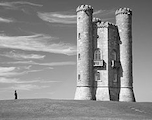
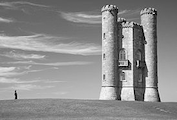
optimized
6.7s

diff --git a/optimization/optimized.py b/optimization/optimized.py
@@ -1,0 +1,90 @@
+from PIL import Image
+import gurobipy as gp
+from gurobipy import GRB
+import numpy as np
+import networkx as nx
+import time
+
+im = Image.open('tower.png').convert('L') #convert to grayscale
+tic = time.time()
+
+s = 0 
+real_source = 50
+iterations = 25
+
+#%%
+def idx(i,j):
+    return w*(i-1) + j
+
+def get_weight(n1,n2): #weight of edge connecting n1 and n2 
+    if n1== s or n2 == t:
+        return 0
+    else:
+        return np.abs(intensity[n1-1] - intensity[n2-1]) 
+
+for z in range(iterations):
+    h = im.height
+    w = im.width
+    t = h*w+1
+    intensity = list(im.getdata())
+
+    coords = [(i,j) for i in range(1,h+1) for j in range(1,w+1) if (real_source-i<=j<=100)]
+
+    nodes = [0]
+    nodes += [idx(i, j) for i, j in coords]
+
+    nodes += [h*w+1]
+
+    ngbrs = {idx(i,j) :[idx(i2,j2) for (i2,j2) in [(i+1,j-1),(i+1,j),(i+1,j+1)]
+            if 1 <= i2 <= h and max(1, real_source-i2)<= j2 <= min(100, real_source+i2)]
+            for (i,j) in coords}
+
+    ngbrs[0] = [real_source]
+
+    for j in range(14, 100-z):
+        ngbrs[idx(h, j)].append(h*w+1)
+
+
+    edges = [(n1,n2) for n1 in nodes[:-1] for n2 in ngbrs[n1]]
+
+    G = nx.DiGraph()
+    G.add_nodes_from(nodes)
+    G.add_edges_from(edges)
+
+    A = nx.incidence_matrix(G, oriented=True)
+    b = np.zeros(G.number_of_nodes())
+
+    b[0] = -1
+    b[-1] = 1
+    
+    r = np.zeros(G.number_of_edges())
+
+    for i in range(G.number_of_edges()):
+        r[i] = get_weight(edges[i][0],edges[i][1])
+
+    m = gp.Model("lp")
+    m.Params.LogToConsole = 0
+    m.Params.Method = 0
+    f = m.addMVar(shape=G.number_of_edges(), vtype=GRB.CONTINUOUS, lb=0, name="")
+
+    m.addConstr(A@f==b)
+    obj = r@f
+    m.setObjective(obj, GRB.MINIMIZE)
+    m.optimize()
+
+    flows = m.getAttr("X", m.getVars())[1:]
+    img = np.array(im)
+
+    new_img = []
+    for i in range(len(flows)):
+        if flows[i]==1:
+            endpoint = edges[i][0]
+            new_img += [np.delete(img[endpoint//w], endpoint%w-1)]
+
+    im = Image.fromarray(np.array(new_img))
+    print(f"Iteration {z+1}")
+
+toc = time.time()
+print ('elapsed ', toc - tic)
+im.save('saved.png')
+ 
